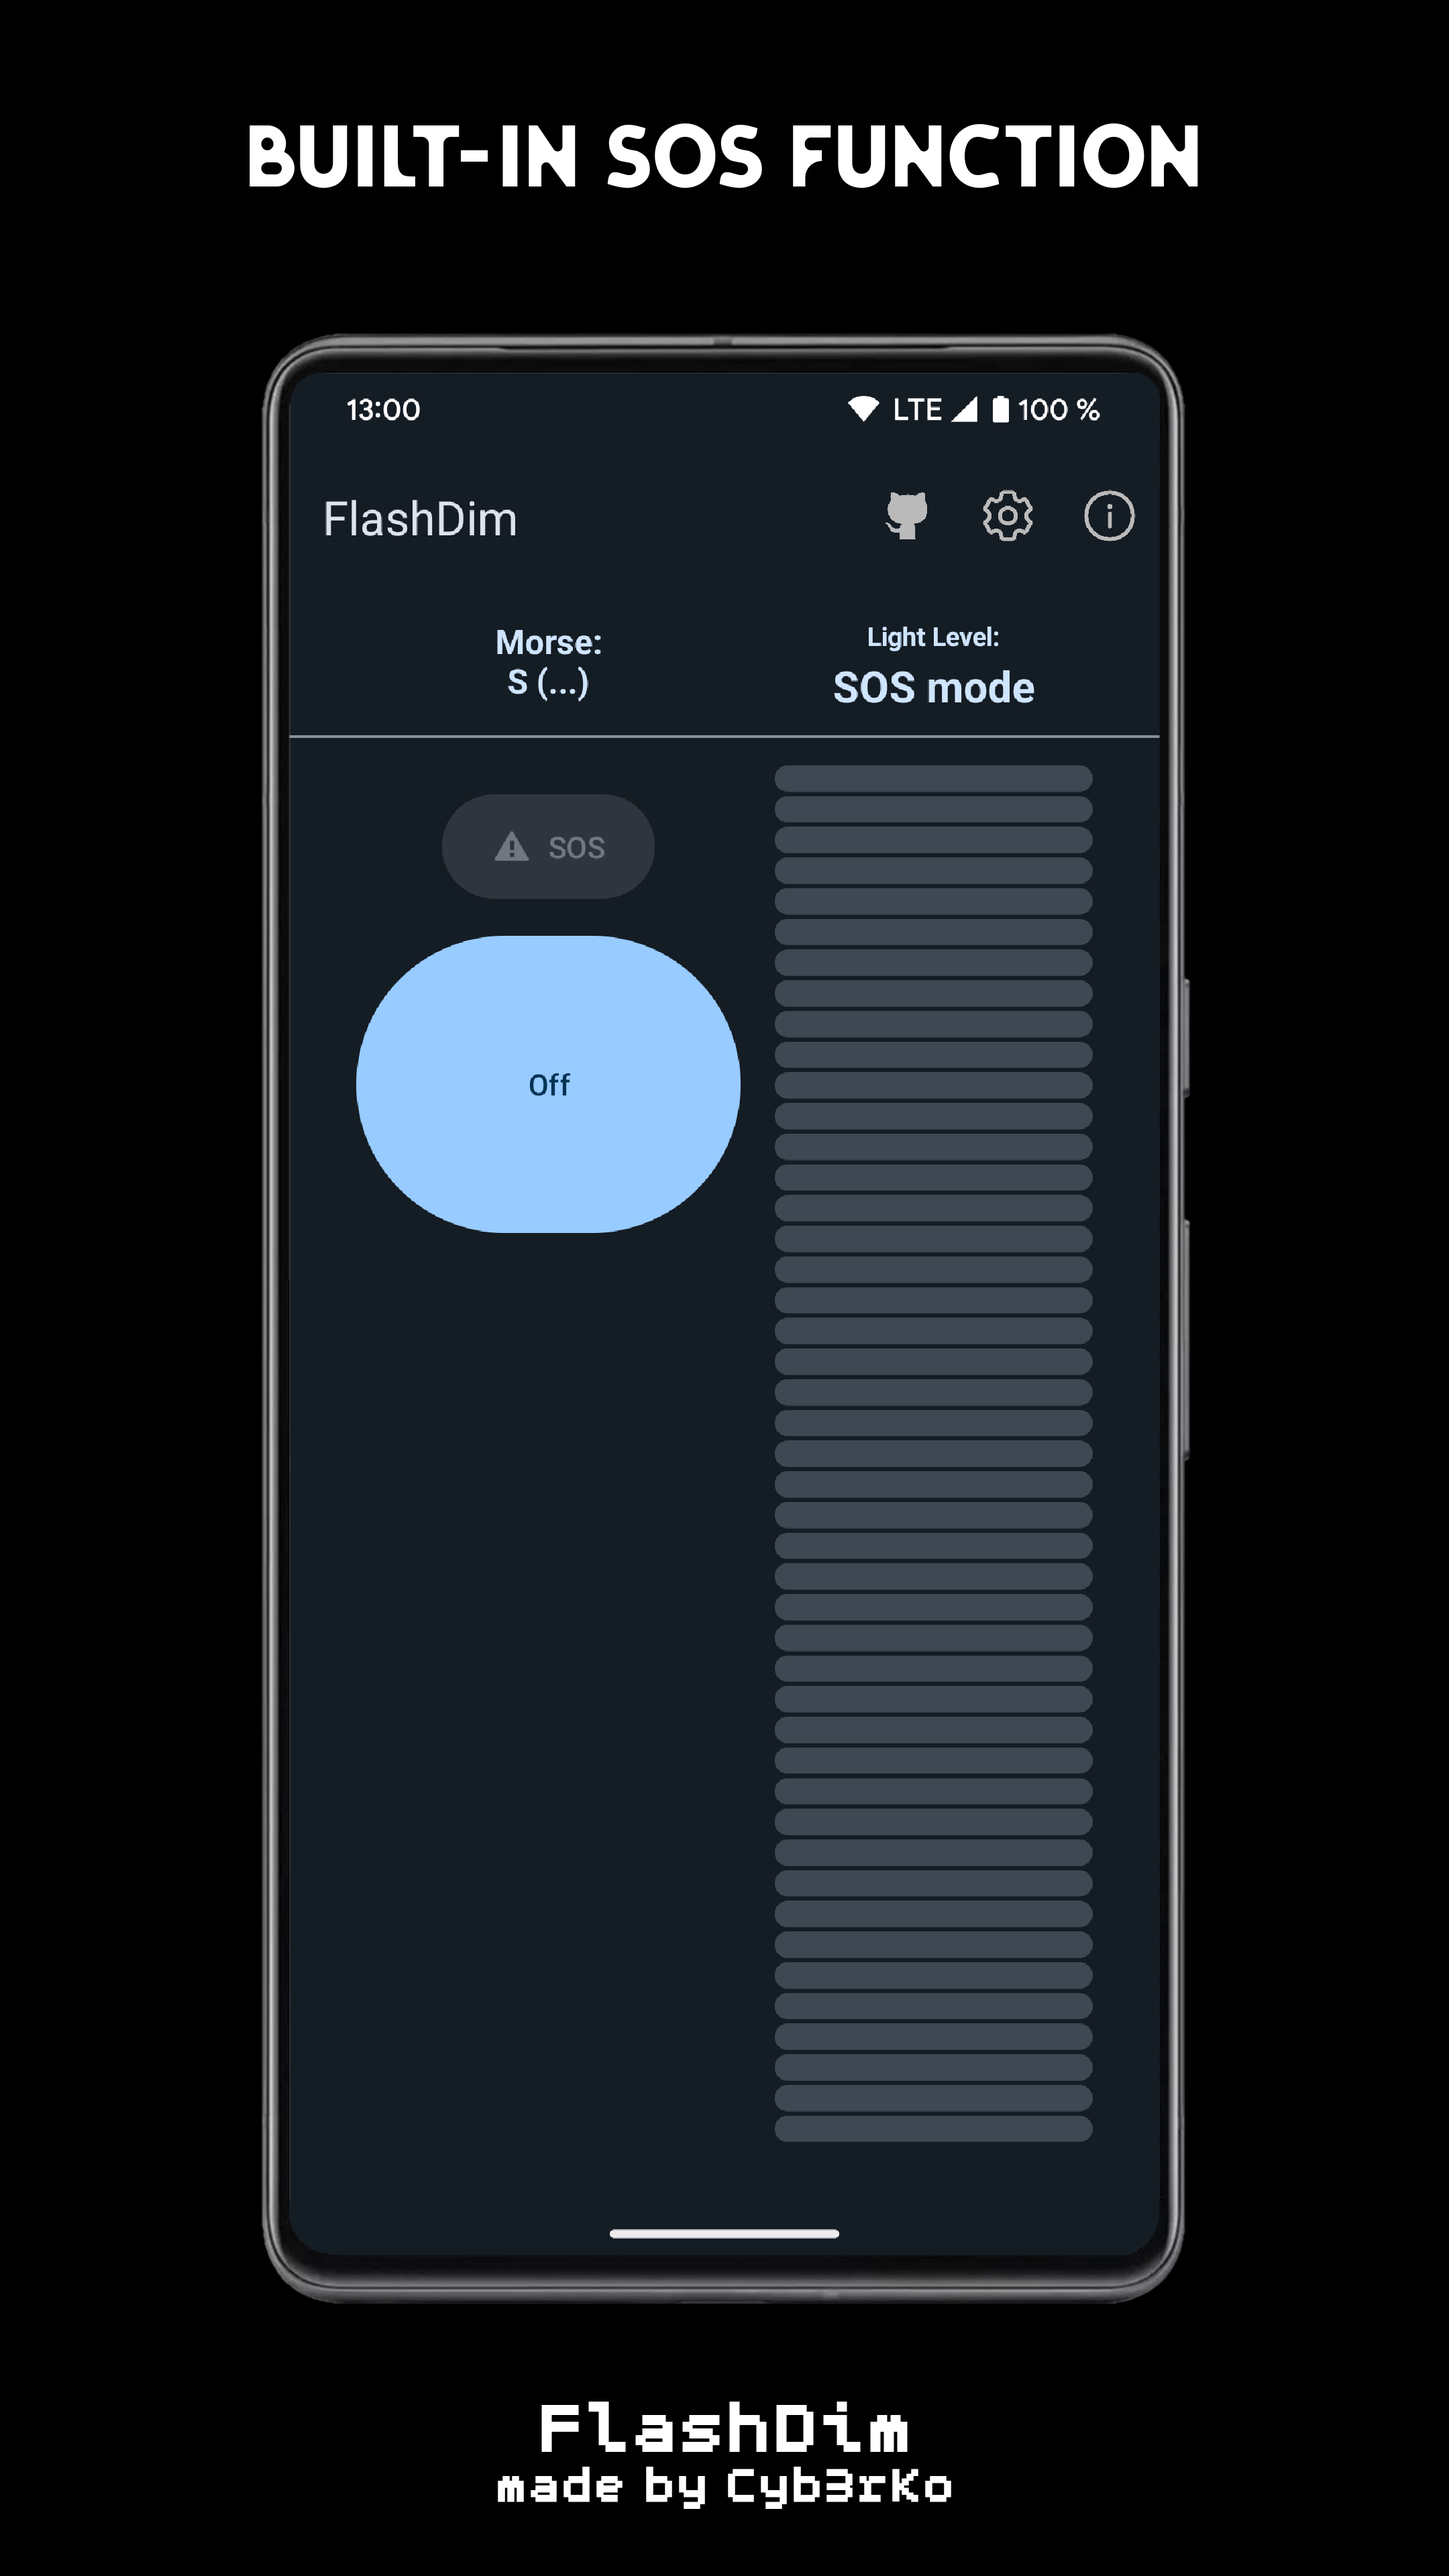
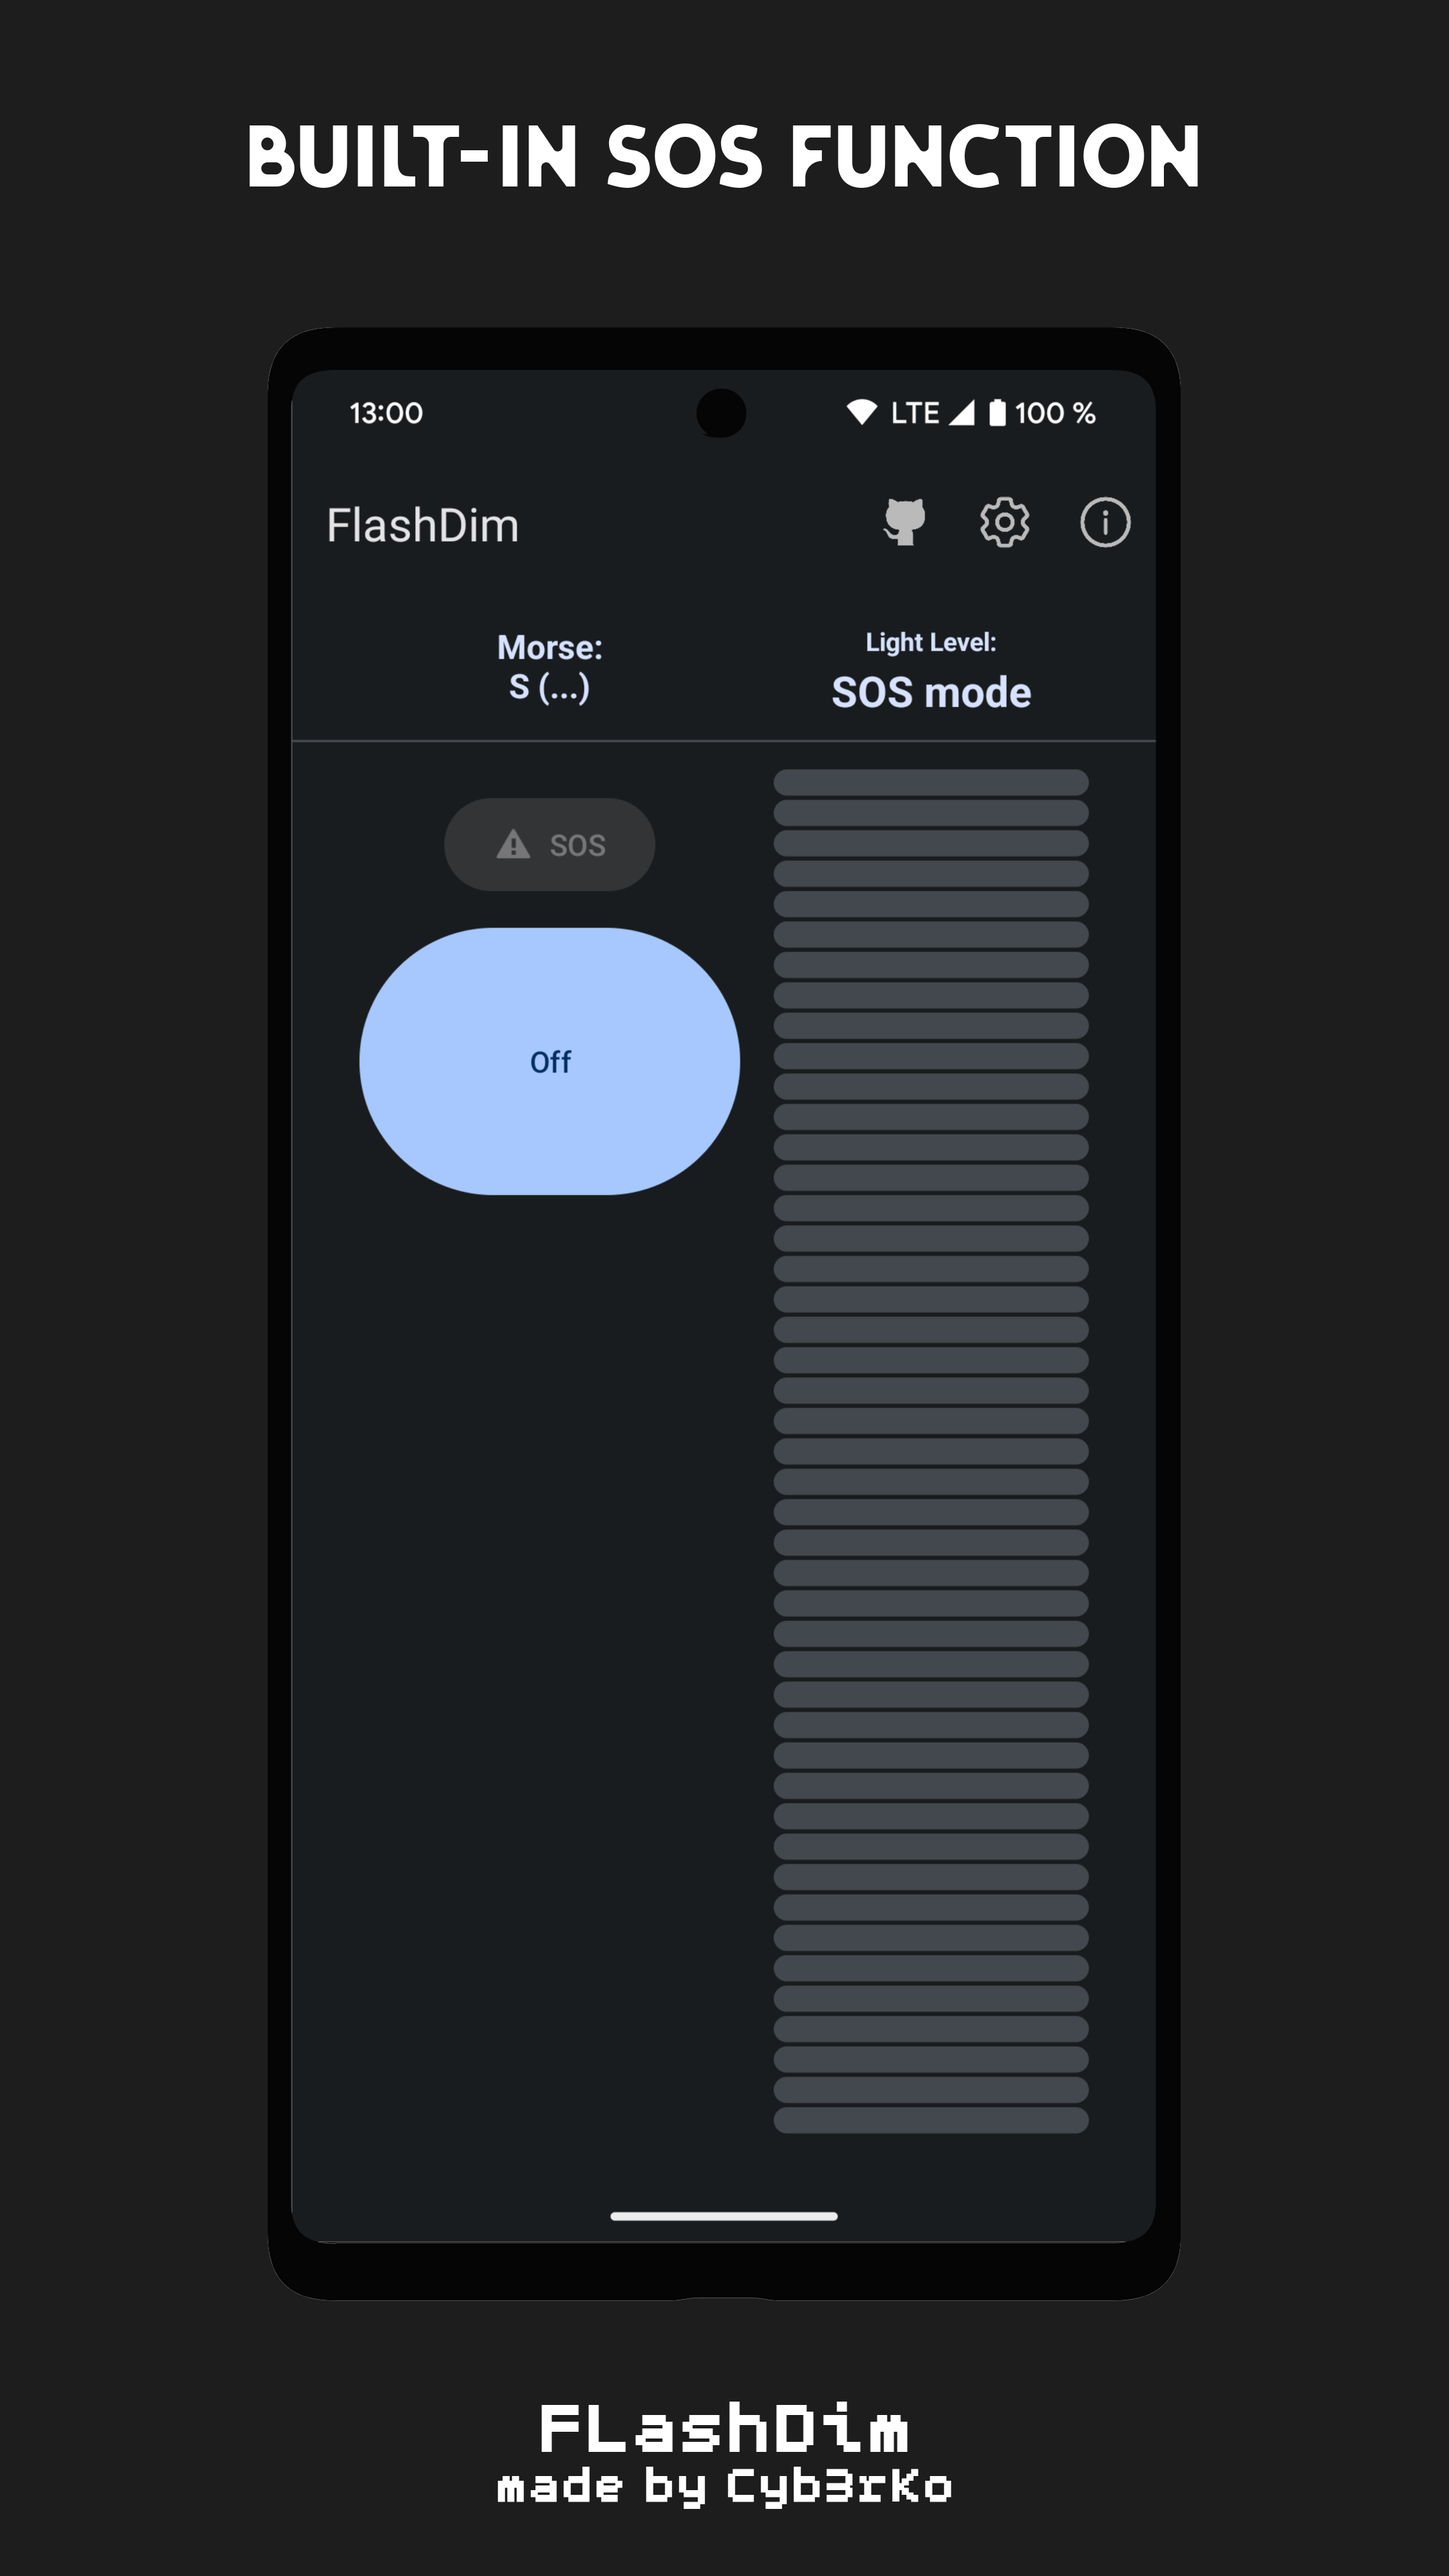
repo: Update screenshots + feature list

diff --git a/README.md b/README.md
@@ -46,6 +46,7 @@ Custom SeekBar built with code from [massoudss/waveformSeekBar](https://github.c
 - 🎚 shortcut buttons for different brightness levels
 - 🆘 SOS flash button
 - 📫 morse code flash mode
+- ⏲ Interval / BPM mode
 - ⚡ quick settings tile for fast access
 - 🔒 private, no ads, no internet connection
 - 💯 modern Material You (M3) design elements
@@ -138,8 +139,8 @@ If the list contains any phone which does has a dimmable flashlight, please let 
 - realme 真我GT 2 (realme RE58B2L1)
 
 ## Screenshots
-|<img src="https://i.imgur.com/oIUHkTg.png" width="220">|<img src="https://i.imgur.com/0hoCzcE.png" width="220">|<img src="https://i.imgur.com/pTO3CMs.png" width="220">|<img src="https://i.imgur.com/ltkU3so.png" width="220">|
-|:---:|:---:|:---:|:---:|
+|<img src="https://i.imgur.com/8SuDUBt.png" width="200">|<img src="https://i.imgur.com/0SW3zRo.png" width="200">|<img src="https://i.imgur.com/2xQJjzM.png" width="200">|<img src="https://i.imgur.com/LKBDxJc.png" width="200">|<img src="https://i.imgur.com/46o5Ykk.png" width="200">|
+|:---:|:---:|:---:|:---:|:---:|
 
 ## Contribute
 Of course I'm happy about any kind of contribution.
